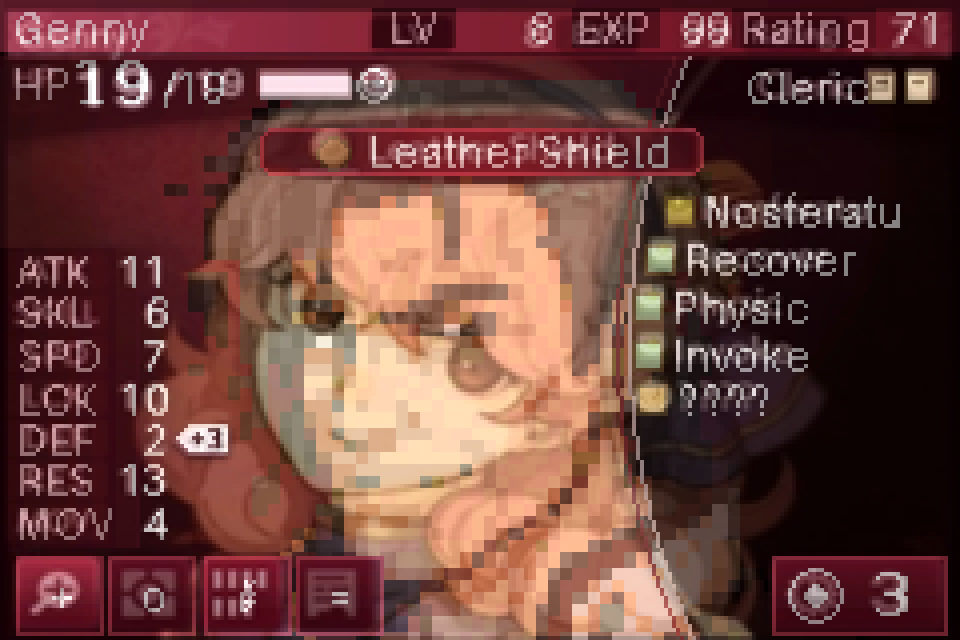
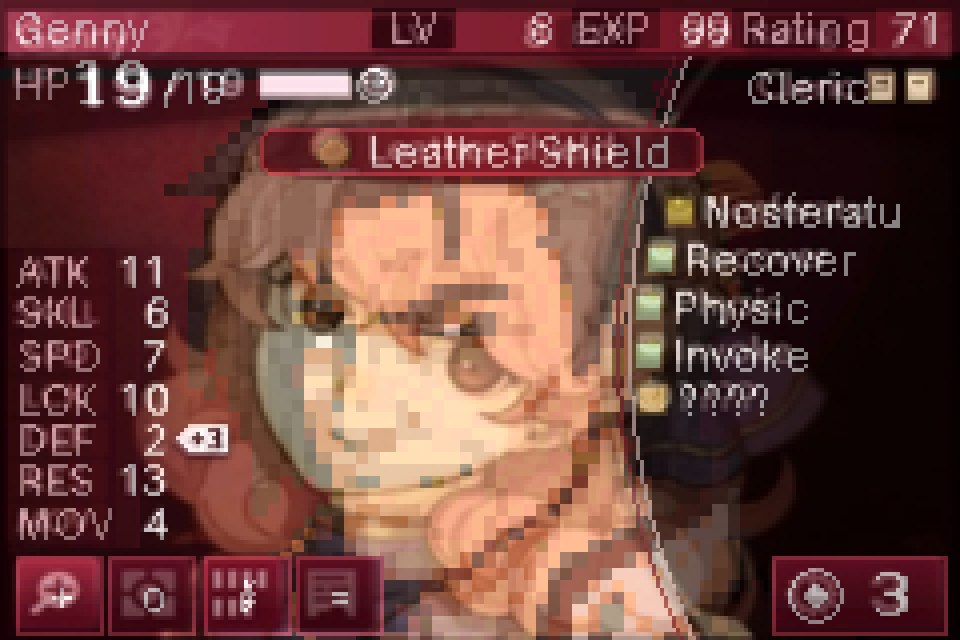
No borrar el pelo gris oscuro del retrato
Claude-Session: https://claude.ai/code/session_01C4QAM7MwvCQVjJLG12SBSt

diff --git a/gba_status/generar.py b/gba_status/generar.py
@@ -26,7 +26,7 @@ RX, RY = -26, 17  # ojos alineados con la guia
 art = Image.open("retrato_busto.png").convert("RGB")
 bgc = (77, 26, 77)
 # quitar fondo morado y marco gris conectado al borde (flood fill)
-fondo = {bgc, (34, 34, 34)}
+fondo = {bgc}  # solo el morado; el gris oscuro es pelo
 mask = Image.new("L", art.size, 255)
 pila = [(x, y) for x in range(art.width) for y in (0, art.height - 1)] + \
        [(x, y) for y in range(art.height) for x in (0, art.width - 1)]
